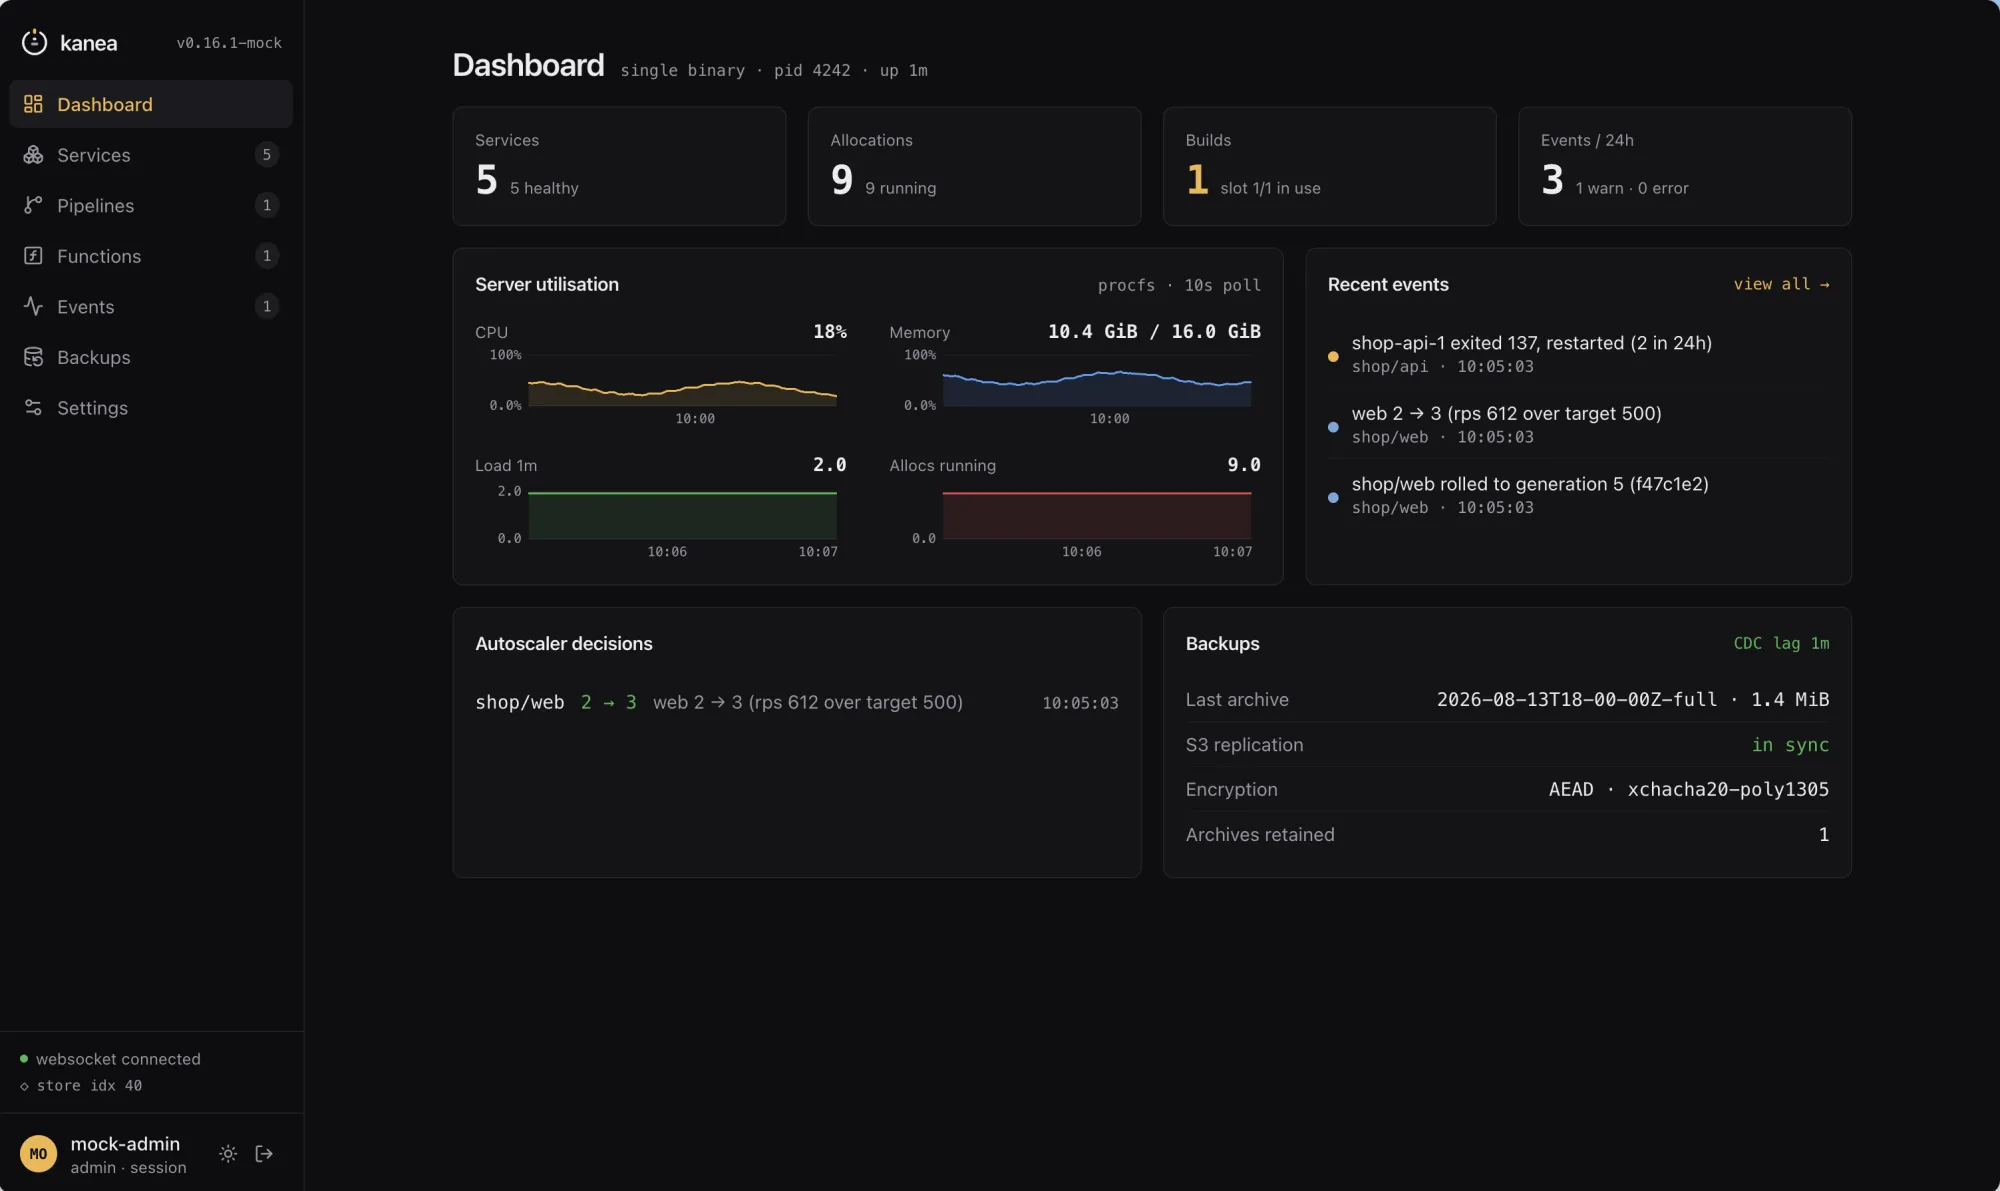
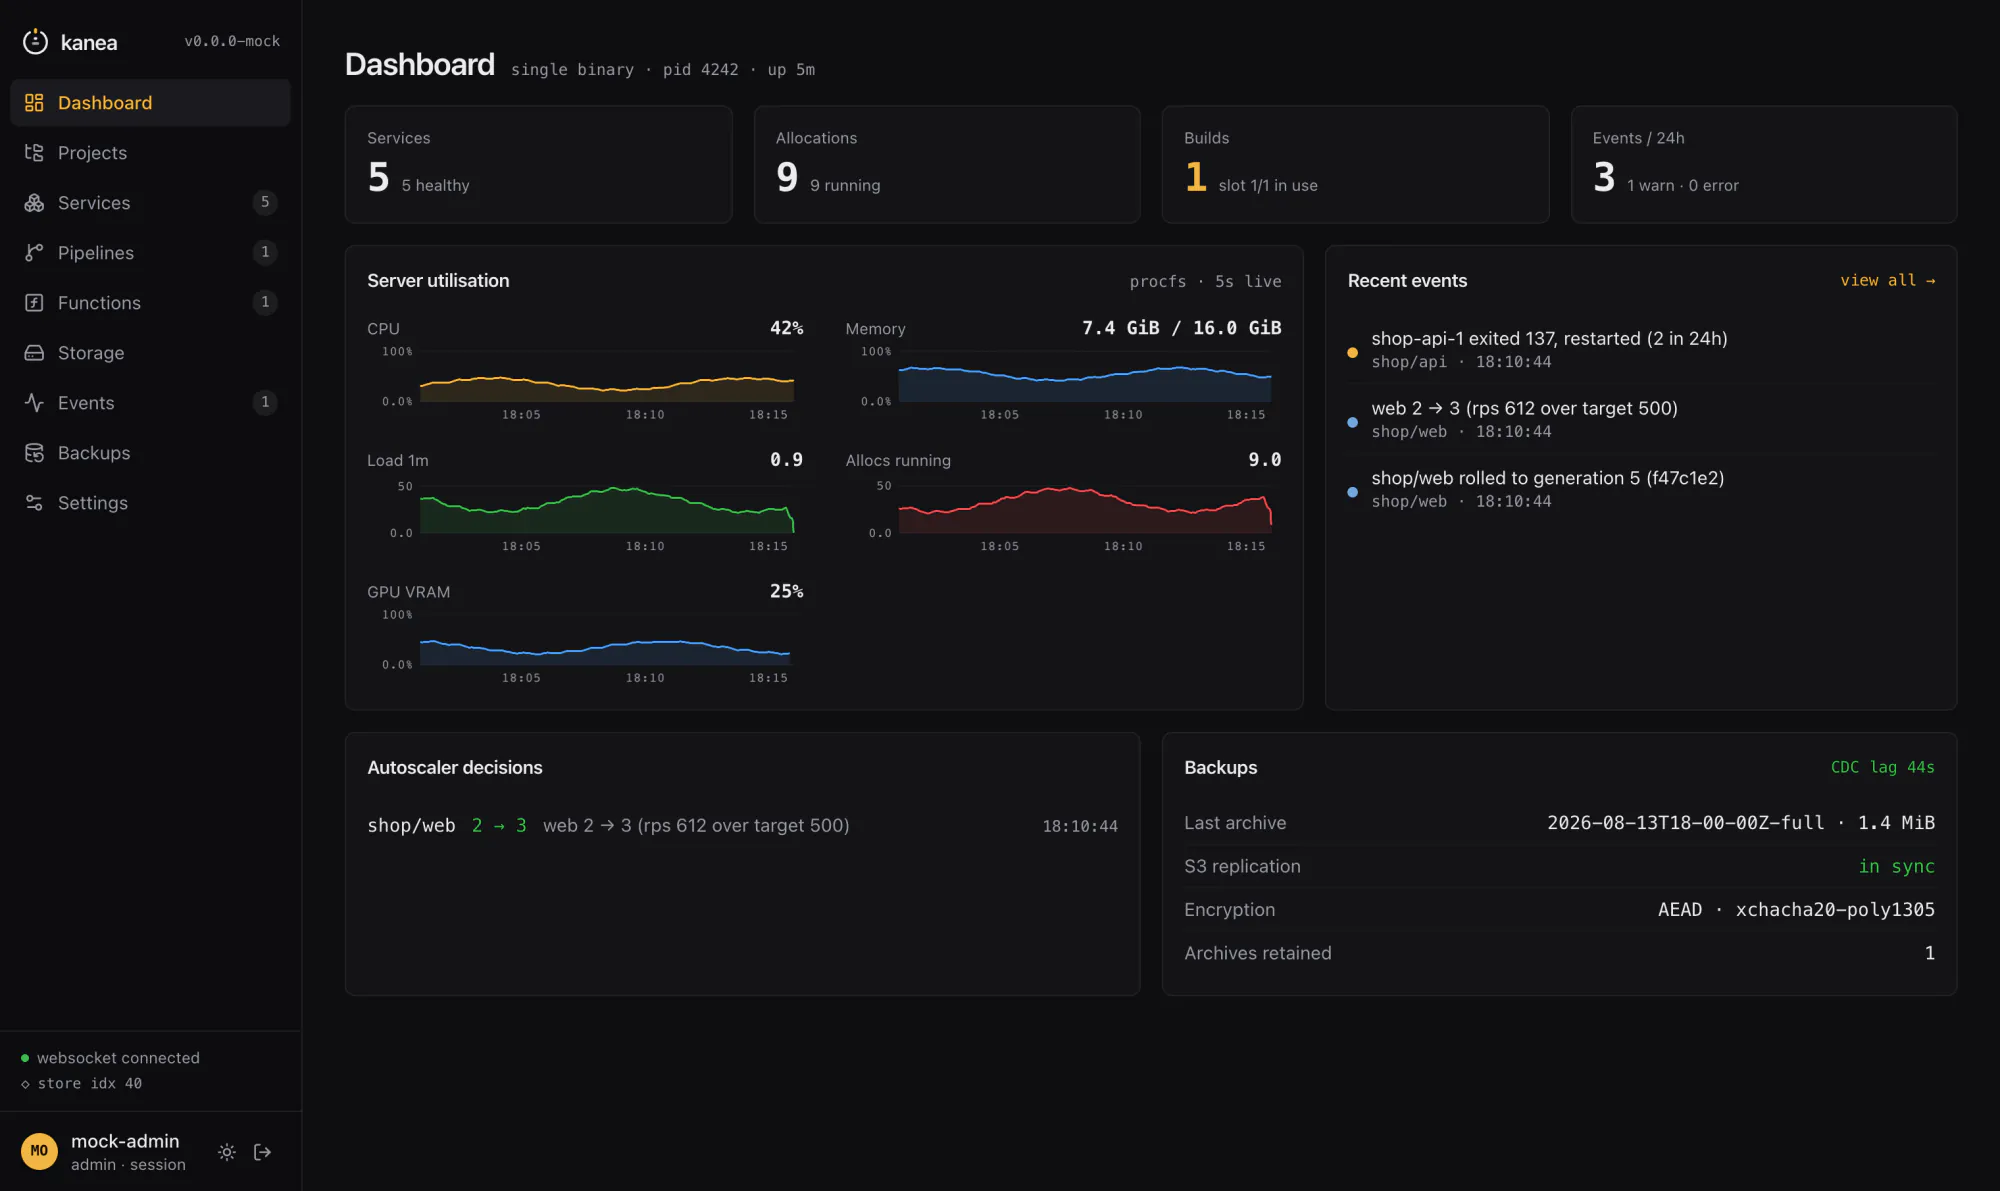
docs(site): re-shoot the dashboard screenshots
The seven shots on the landing page predate the dashboard work on this branch,
so the page advertised a UI that no longer exists. The new ones carry what
shipped since: the Projects and Storage pages, the GPU VRAM panel, the live
5s stats feed, and on the service detail page the Open menu and the Scale
dialog's entry point beside Restart and Stop.

Captured against the in-process mock daemon (MOCK_API=1), which is what the
old ones were too. Framing is reproduced rather than guessed: the sidebar's
right edge sits at x=303 of 2000 and the sidebar is w-[230px] plus its border,
which puts the original viewport at ~1520 CSS px, so these are shot at
1520x905 at 2x and resized to exactly 2000x1191. That size is not incidental:
the carousel swaps the seven in place, so one aspect between them is what
stops the page jumping as you click through.

site/index.html is untouched. The filenames are unchanged, so this is an asset
swap and needs no design-tool re-export.

The mock now reports 0.0.0-mock instead of v0.16.1-mock. The version badge is
in every screenshot, and a release number there goes stale the moment the next
tag is cut with nothing in the release checklist to catch it. 0.0.0 is the
binary's own convention for "not a release" (cmd/kanea/main.go's 0.0.0-dev);
a bare word would not do, because the Sidebar renders the value through a `v`
prefix and "mock" would read as "vmock".

diff --git a/dashboard/mock/state.ts b/dashboard/mock/state.ts
@@ -243,10 +243,16 @@ export function serviceStats(svc: MockService) {
   }
 }
 
+// The mock reports 0.0.0-mock rather than a release number, and deliberately:
+// this fixture feeds the site's screenshots (site/assets/shot-*.webp), where a
+// pinned version goes stale the moment the next tag is cut and nothing in the
+// release checklist would catch it. 0.0.0 is the binary's own convention for
+// "not a release" (cmd/kanea/main.go's 0.0.0-dev), and the Sidebar renders it
+// through a `v` prefix, so a bare word like "mock" would read as "vmock".
 export function nodeStats() {
   const running = allocs.filter((a) => a.state === 'running').length
   return {
-    version: 'v0.16.1-mock',
+    version: '0.0.0-mock',
     projects: new Set(services.map((s) => s.project)).size,
     services: services.length,
     allocs: allocs.length,

diff --git a/dashboard/mock/api.ts b/dashboard/mock/api.ts
@@ -127,7 +127,7 @@ async function route(req: IncomingMessage, res: ServerResponse): Promise<void> {
   if (path === '/v1/healthz') {
     return json(res, 200, {
       status: 'ok',
-      version: 'v0.16.1-mock',
+      version: '0.0.0-mock',
       store_index: currentIndex(),
       ws_connections: 1,
       oidc: { enabled: false },
@@ -239,7 +239,7 @@ async function route(req: IncomingMessage, res: ServerResponse): Promise<void> {
           index: currentIndex() - 5,
           reason: 'interval',
           node: 'shop-node',
-          version: 'v0.16.1',
+          version: '0.0.0-mock',
           snapshot: { name: 'snapshot.bin.enc', size: 1_482_112, sha256: 'ab'.repeat(32) },
           counts: { services: services.length, allocs: allocs.length, secrets: 6, certs: 3, projects: 2 },
         },
